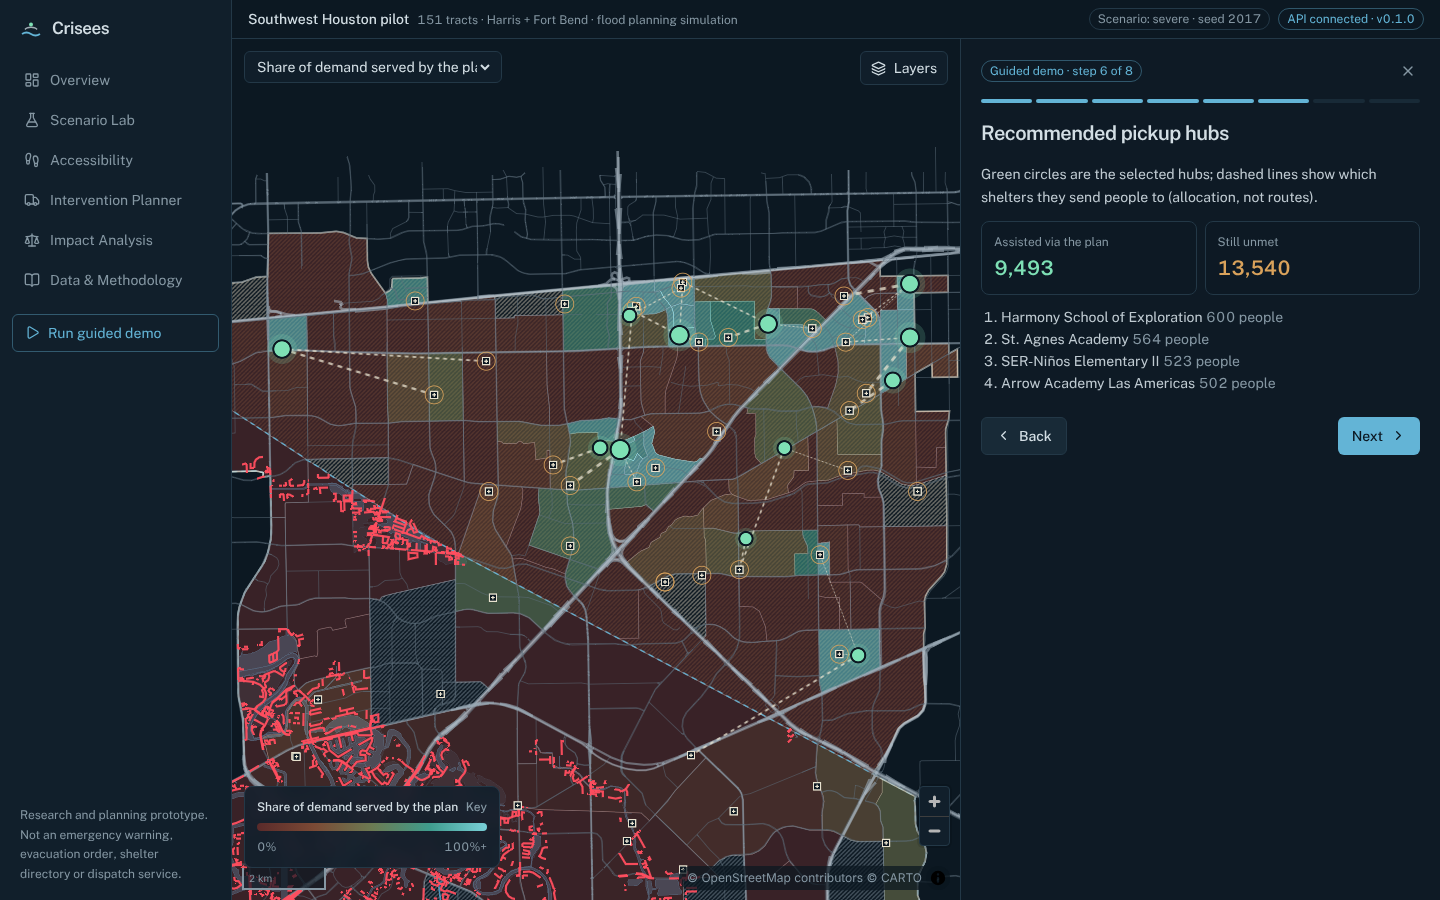
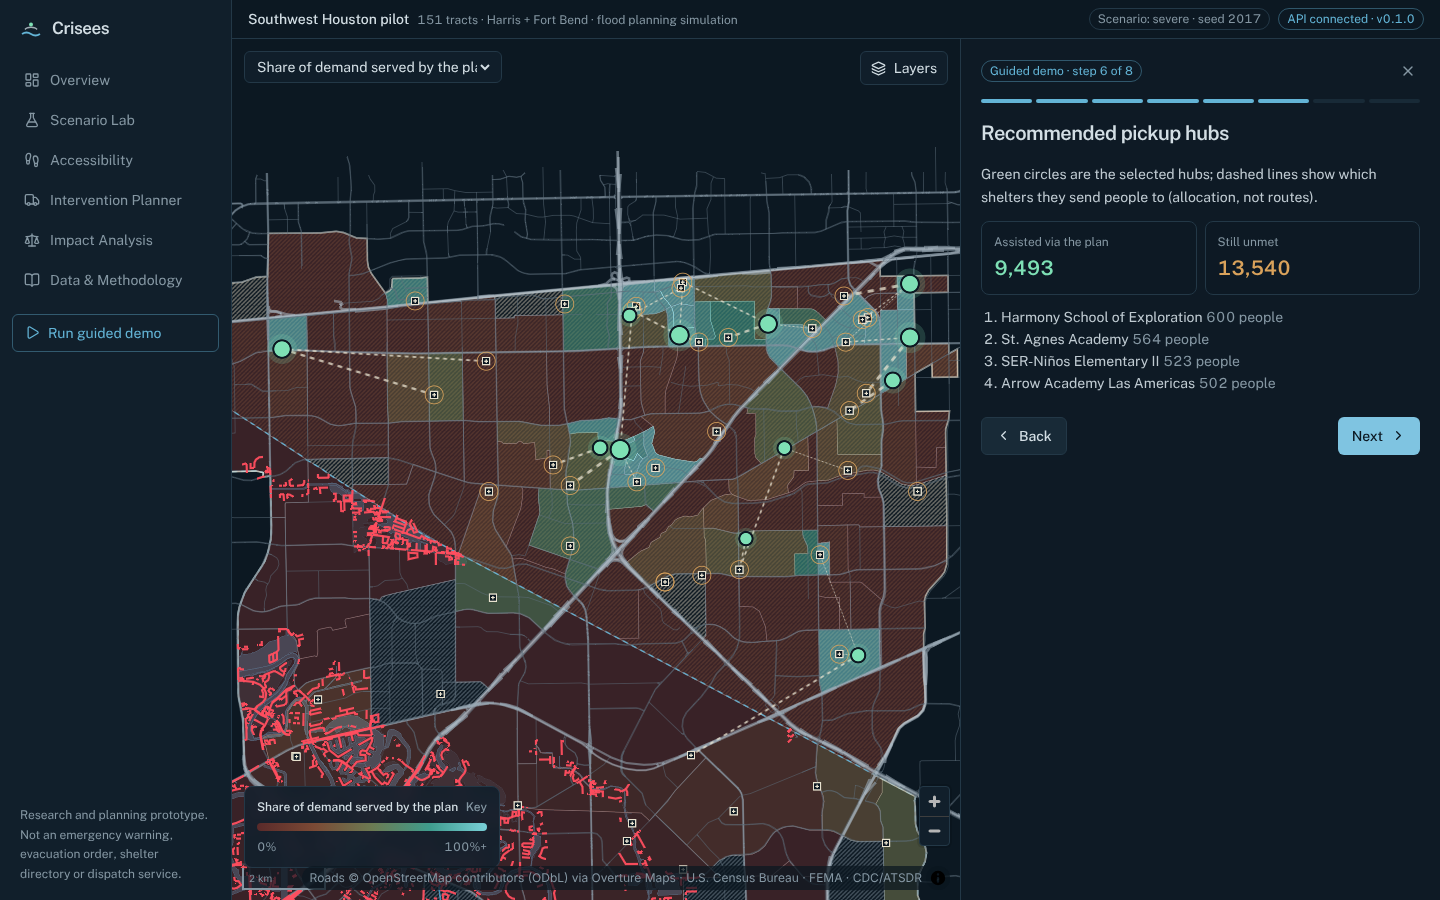
Docs: record the live Vercel deployment, verified checklist and Devpost draft
- DEPLOYMENT: live URLs, env vars, how the API fits Vercel's limits, cold starts
- RELEASE_CHECKLIST: only items verified in production are ticked
- DEVPOST_SUBMISSION: live URLs; demo video explicitly pending
- README/DEMO_SCRIPT: live links and warm-up note; screenshots from production

Claude-Session: https://claude.ai/code/session_01Cz7WM2xR1NJjrMpmw2fqLJ

Changed region(s): [[0.2188, 0.9644, 0.625, 0.9956], [0.9062, 0.4356, 1.0, 0.5289]]

diff --git a/docs/DEPLOYMENT.md b/docs/DEPLOYMENT.md
@@ -1,120 +1,108 @@
 # Deployment
 
-Target: the frontend on **Vercel** (Next.js) and the API on **Render** (Docker). Any Docker host with about
-1 GB of RAM works for the API.
+## Live deployment
 
-**Status:** deployment configurations are complete and were tested locally: the entrypoint, data
-provisioning, CORS and the production frontend build. A live public deployment has **not** been verified.
-The build environment had no Render (or other container host) credentials, no Docker daemon, and no
-permission to create GitHub Release assets. The steps below are what remains.
+| Component | URL | Host |
+| --- | --- | --- |
+| Web app (Next.js) | https://crisees-drea7.vercel.app | Vercel project `crisees`, root `frontend/` (Hobby plan, free) |
+| API (FastAPI) | https://crisees-api-drea7.vercel.app | Vercel project `crisees-api`, root `backend/`, Python function (Hobby plan, free) |
+| Data release | https://github.com/renish5609-beep/Crisees/releases/tag/data-v1 | GitHub Release `data-v1` |
 
-## 1. Publish the data release (once per data version)
+Both projects deploy automatically from branch `claude/sleepy-cori-ki2xgv`, which is the repository's
+default branch. Deployment protection is off so judges can open the app without a Vercel login.
 
-Processed data (about 27 MB) is Git-ignored. Build an immutable, checksummed artifact:
+Verified in production on 2026-11-22:
+
+- `/health` returns `regions_with_processed_data: 1` in the `production` environment.
+- `/demo` returns all five comparison cases with feasible constraint checks.
+- 18 endpoints returned 200.
+- CORS allows the app's origin and rejects unknown origins.
+- `npm run e2e` passes against both live URLs (see RELEASE_CHECKLIST.md).
+
+**Cost.** No paid services are used. Render was evaluated, but it requires a payment method, so it was not
+created.
+
+## How the API fits on Vercel
+
+Vercel's standard Python function size is **250 MB uncompressed**. Above that, dependencies are installed
+at runtime into `/tmp`, which fails for this stack. The API's geospatial dependencies total about 550 MB,
+so the backend build does the following:
+
+1. **Lean core dependencies.** `backend/pyproject.toml` core dependencies are only what the API imports.
+   The pipeline extras (OSMnx, pyogrio, requests) and the `server` extra (uvicorn) are separate. Docker
+   and local development install `.[dev]`, or `.[pipeline,server]` for Docker.
+2. **Build hook.** `backend/vercel_build.py` runs via `[tool.vercel.scripts] build`, after dependencies
+   are installed. It only acts when `VERCEL=1`, and only on `.vercel/python/.venv`.
+   - It downloads the data release from `CRISEES_DATA_URL` and verifies `CRISEES_DATA_SHA256`; on a
+     mismatch the build fails.
+   - It reads each dataset with pyarrow, which is lossless, converts Arrow-backed strings and labels to
+     plain Python objects, refuses any pickle that still references pyarrow, and writes gzip pickles to
+     `backend/data_bundle/processed/<region>/` (18.7 MB).
+   - It removes pyarrow, pyogrio, unused scipy subpackages and test suites from the virtualenv. In the
+     local rehearsal this took the packages from 398 MB to 239 MB.
+3. **Runtime.** `CRISEES_DATA_DIR=data_bundle`. The repository loads `.pkl.gz` files when present and
+   Parquet otherwise, so local and Docker behaviour are unchanged. A rehearsal with pyarrow imports
+   blocked returned 200 from every endpoint, with identical demo numbers.
+
+API environment variables (project `crisees-api`, Production and Preview):
+
+| Variable | Value |
+| --- | --- |
+| `CRISEES_ENV` | `production` |
+| `CRISEES_DATA_DIR` | `data_bundle` |
+| `CRISEES_DATA_URL` | `https://github.com/renish5609-beep/Crisees/releases/download/data-v1/crisees-data-houston-sw-pilot-20261122T002055Z.tar.gz` |
[1 lines of base64/hex data omitted]
+| `CRISEES_CORS_ORIGINS` | `https://crisees-drea7.vercel.app,http://localhost:3000` |
+| `CRISEES_CORS_ORIGIN_REGEX` | `^https://crisees[a-z0-9-]*\.vercel\.app$` (preview URLs) |
+
+Frontend environment variables (project `crisees`):
+
+| Variable | Value |
+| --- | --- |
+| `NEXT_PUBLIC_API_BASE_URL` | `https://crisees-api-drea7.vercel.app` |
+| `NEXT_PUBLIC_DEFAULT_REGION` | `houston-sw-pilot` |
+| `NEXT_PUBLIC_BASEMAP_TILES` | `none`. External raster tiles are opt-in: CARTO's free tiles now require an API key and rendered "API KEY REQUIRED" in production. The map uses its self-hosted major-roads layer for context |
+
+**Cold starts.** After idle periods the first request starts a new function instance, which loads the
+bundled data and builds the routing engine. The first `/demo` takes about 10–12 s. Later requests on a
+warm instance are served from the cache in milliseconds. Before presenting, open the app once to warm it.
+
+## Data release (immutable, checksummed)
+
+Processed data is Git-ignored. Release `data-v1` holds:
+
+- `crisees-data-houston-sw-pilot-20261122T002055Z.tar.gz`: 22,107,830 bytes, SHA-256
[1 lines of base64/hex data omitted]
+  and `ATTRIBUTION.md`, with the ODbL and CDLA notices.
+- The matching `.sha256` file.
+
+Both assets were verified publicly downloadable, and the checksum was independently recomputed.
+
+For a new data version, run `python scripts/package_data_release.py`, publish a new release tag, and
+update `CRISEES_DATA_URL` and `CRISEES_DATA_SHA256`. The next deployment bundles the new data.
+
+## Redeploying
+
+Push to `claude/sleepy-cori-ki2xgv`. Both Vercel projects build automatically: about 1 minute for the
+frontend and 1–2 minutes for the API.
+
+## Alternative: Docker host (Render, Fly.io, Cloud Run)
+
+`backend/Dockerfile`, `backend/docker-entrypoint.sh` and `render.yaml` remain available for a
+long-running server (about 1 GB RAM). The entrypoint fetches and verifies the same release at start.
+Render's Standard plan costs about $25/month plus disk; it was not used. See the git history for the
+earlier Render instructions.
+
+## Verifying a deployment
 
 ```bash
-python scripts/package_data_release.py --region houston-sw-pilot
+curl https://crisees-api-drea7.vercel.app/health
 ```
-
-This produces `dist/crisees-data-houston-sw-pilot-<stamp>.tar.gz` and its `.sha256` file. The artifact
-contains processed data plus `ATTRIBUTION.md`, which covers ODbL for the OSM-derived road tables and
-CDLA-Permissive-2.0 for Overture places.
-
-Artifact built in this environment:
-
-| File | Bytes | SHA-256 |
-| --- | ---: | --- |
[1 lines of base64/hex data omitted]
-
-Upload it as a GitHub Release asset (immutable, public):
-
 ```bash
-gh release create data-v1 dist/crisees-data-houston-sw-pilot-*.tar.gz dist/*.sha256 \
-  --repo renish5609-beep/Crisees --title "Crisees data v1 (houston-sw-pilot)" \
-  --notes "Processed datasets for the Crisees API. See ATTRIBUTION.md inside."
+curl https://crisees-api-drea7.vercel.app/api/v1/regions/houston-sw-pilot/demo | jq '.result.cases[] | {case, served: .totals.served}'
 ```
-
-The asset URL has this form:
-`https://github.com/renish5609-beep/Crisees/releases/download/data-v1/crisees-data-houston-sw-pilot-20261122T002055Z.tar.gz`
-
-## 2. Deploy the API on Render
-
-1. Render dashboard → **New → Blueprint** → select this repository and branch. `render.yaml` defines
-   `crisees-api`: a Docker service on the `standard` plan (2 GB), a health check on `/health`, and a 1 GB
-   disk at `/data`.
-2. Set the environment variables:
-
-   | Variable | Value |
-   | --- | --- |
-   | `CRISEES_DATA_URL` | The release asset URL from step 1 |
[1 lines of base64/hex data omitted]
-   | `CRISEES_CORS_ORIGINS` | `https://<your-vercel-domain>` (comma-separated list allowed) |
-   | `CRISEES_CORS_ORIGIN_REGEX` | Optional, for previews, e.g. `^https://crisees-.*\.vercel\.app$` |
-
-3. Deploy. The entrypoint (`backend/docker-entrypoint.sh`) then does the following:
-   - It downloads the release, verifies the SHA-256 and refuses to install on a mismatch. It extracts
-     atomically, then validates all 12 datasets. On a persistent disk, a re-run with the same checksum is
-     a no-op.
-   - It starts uvicorn with one worker. The engine caches the road graph, about 1 GB per process.
-   - It warms the engine in the background (the severe scenario and the demo), so the first visitor gets
-     cached answers.
-4. Verify: `curl https://<api>/health` should return `"regions_with_processed_data": 1`.
-   `curl https://<api>/api/v1/regions/houston-sw-pilot/demo` should return the five comparison cases.
-
-**Fallbacks.**
-
-- If `CRISEES_DATA_URL` is unset and `CRISEES_BUILD_DATA=1`, the container rebuilds data from public
-  sources. This takes about 5 minutes and needs about 2 GB RAM. Pin `CRISEES_OVERTURE_RELEASE=2026-11-18.0`
-  for reproducibility. Overture removes old releases after a few months, and official FEMA and CDC sources
-  may yield *more complete* data than the documented build, so the numbers may differ.
-- With no data at all, the API still starts. `/health` reports `regions_with_processed_data: 0` and the
-  data endpoints return 503 `dataset_not_available` with instructions. The frontend shows
-  "API up, data not provisioned".
-
-**Robustness.**
-
-- **Container restarts:** the disk keeps the data, and the checksum marker skips re-download.
-- **Cold start:** about 4 s to build the engine, absorbed by the warm-up.
-- **Solver limits:** each solve is time-limited to 30 s by default and 120 s at most, and at most 2
-  analysis jobs run concurrently (otherwise 503 `engine_busy`).
-- **Caching:** results are LRU-cached by request hash.
-
-Without Docker, you can run the image's steps directly:
-
 ```bash
-pip install ./backend && python scripts/fetch_data_release.py && uvicorn app.main:app --app-dir backend --host 0.0.0.0 --port $PORT
+cd frontend && APP_URL=https://crisees-drea7.vercel.app API_URL=https://crisees-api-drea7.vercel.app npm run e2e
 ```
 
-**Memory note:** Render's free and starter plans (512 MB) are too small. The process uses about 1 GB once
-warm, so choose `standard` or larger.
-
-## 3. Deploy the frontend on Vercel
-
-1. Vercel → **Add New → Project** → import `renish5609-beep/Crisees`. Set **Root Directory** to
-   `frontend`. The framework (Next.js) is auto-detected.
-2. Environment variables (Production and Preview):
-
-   | Variable | Value |
-   | --- | --- |
-   | `NEXT_PUBLIC_API_BASE_URL` | `https://<your-render-service>.onrender.com` (no trailing slash; **required**) |
-   | `NEXT_PUBLIC_DEFAULT_REGION` | `houston-sw-pilot` |
-   | `NEXT_PUBLIC_BASEMAP_TILES` | Optional; default CARTO dark (no labels). Check the tile provider's terms for your traffic |
-
-   Without `NEXT_PUBLIC_API_BASE_URL`, a production build shows a clear "not configured" error. It never
-   falls back to localhost.
-3. Deploy, then add the Vercel domain to `CRISEES_CORS_ORIGINS` on Render and redeploy the API.
-4. Verify:
-   - Open the site. The status pill reads "API connected".
-   - **Run guided demo** completes all 8 steps.
-   - Optional: `APP_URL=https://<vercel> API_URL=https://<api> npm run e2e` from `frontend/`.
-
-## 4. Alternative hosts
-
-- **Fly.io / Railway / Google Cloud Run:** use `backend/Dockerfile` with the same environment variables
-  and at least 1 GB of memory. On Cloud Run, set `--memory 2Gi --cpu 2 --concurrency 4`, and either set
-  min-instances to 1 or accept cold starts of about 10 s, including the data download.
-- **Bake data into the image:** pass `--build-arg CRISEES_DATA_URL=… --build-arg CRISEES_DATA_SHA256=…`.
-
-## Secrets
-
-None are required. The Census API key is optional and unused in deployment. Do not commit `.env` files.
+Node's built-in `fetch` ignores proxy variables; behind a proxy, add `NODE_USE_ENV_PROXY=1`.

diff --git a/docs/RELEASE_CHECKLIST.md b/docs/RELEASE_CHECKLIST.md
@@ -1,42 +1,48 @@
 # Release checklist (final submission)
 
+Checked items were verified on 2026-11-22. Unchecked items have not been verified or are pending your
+action.
+
 ## Code and tests
 
-- [ ] `cd backend && python -m pytest` passes (157 tests; real-data tests run when data is present)
-- [ ] `cd frontend && npm run typecheck && npm run lint && npm test` passes
-- [ ] `NEXT_PUBLIC_API_BASE_URL=<api> npm run build` succeeds
-- [ ] `python scripts/validate_data.py`: 12/12 datasets valid
-- [ ] `APP_URL=… API_URL=… npm run e2e` passes against the deployed URLs, with no console errors
-- [ ] Branch pushed; CI green
+- [x] `cd backend && python -m pytest`: 157 passed (real-data tests ran against the local processed data)
+- [x] `cd frontend && npm run typecheck && npm run lint && npm test`: pass (11 unit tests)
+- [x] `NEXT_PUBLIC_API_BASE_URL=https://crisees-api-drea7.vercel.app npm run build` succeeds (first load for `/` is 135 kB)
+- [x] `python scripts/validate_data.py`: 12/12 datasets valid (local data and the installed release)
+- [x] `APP_URL=https://crisees-drea7.vercel.app API_URL=https://crisees-api-drea7.vercel.app npm run e2e` passes, with no console errors
+- [x] Branch `claude/sleepy-cori-ki2xgv` pushed
+- [ ] GitHub Actions CI green. Not checked: CI results were not inspected in this session
 
 ## Data release
 
-- [ ] `python scripts/package_data_release.py` run, and the `.tar.gz` and `.sha256` uploaded to a GitHub Release
-- [ ] `CRISEES_DATA_SHA256` on the API equals the published `.sha256`
-- [ ] `ATTRIBUTION.md` present in the artifact (ODbL / CDLA notices)
+- [x] Release `data-v1` published with both assets: https://github.com/renish5609-beep/Crisees/releases/tag/data-v1
+- [x] Archive publicly downloadable; SHA-256 recomputed and matches `0fe0e8e3…69eb`
+- [x] `CRISEES_DATA_SHA256` on the API equals the published `.sha256`
+- [x] `ATTRIBUTION.md` present in the artifact (ODbL / CDLA notices)
 
 ## Deployment
 
-- [ ] API `/health` returns `regions_with_processed_data: 1`
-- [ ] API `/api/v1/regions/houston-sw-pilot/demo` returns 5 cases, all `constraint_check_feasible: true`
-- [ ] Frontend env `NEXT_PUBLIC_API_BASE_URL` points at the API (no localhost)
-- [ ] API `CRISEES_CORS_ORIGINS` contains the frontend domain
-- [ ] The status pill on the live site reads "API connected"
-- [ ] Guided demo completes all 8 steps on the live site
-- [ ] Mobile check at about 390 px width: no horizontal scroll, panels readable
+- [x] API `/health` returns `regions_with_processed_data: 1` (https://crisees-api-drea7.vercel.app/health)
+- [x] API `/demo` returns 5 cases, all `constraint_check_feasible: true`; values match the Phase 2 reference (5,214 → 9,493 of 23,033)
+- [x] Frontend `NEXT_PUBLIC_API_BASE_URL` points at the production API (no localhost)
+- [x] API CORS allows https://crisees-drea7.vercel.app and rejects unknown origins
+- [x] Live status pill reads "API connected"
+- [x] Guided demo completes all 8 steps on the live site (automated)
+- [x] Mobile at 390 px: no horizontal scroll (automated)
+- [x] No paid services activated
 
 ## Content honesty
 
-- [ ] Displayed numbers come from live API responses; none are hard-coded
-- [ ] Disclaimer visible: Overview, rail, Methodology, Impact
-- [ ] "Unknown (no FEMA data)" hatching visible and explained in the legend
-- [ ] Equity vs equal described as redistribution, not an increase, when totals are equal
-- [ ] Hub details show the authorization warning for schools and private property
-- [ ] Devpost text claims no users, partners or real-world impact
+- [x] Displayed numbers come from live API responses (e2e compares the UI against direct API calls)
+- [x] Disclaimer visible: Overview, rail, Methodology, Impact
+- [x] "No FEMA data" hatching visible and explained in the legend
+- [x] Equity vs equal described as redistribution when totals are equal ("no change" shown)
+- [x] Hub details show the authorization warning for schools and private property
+- [x] Devpost draft claims no users, partners or real-world impact
 
-## Submission
+## Submission (your action)
 
-- [ ] Demo video ≤ 3 min recorded from `docs/DEMO_SCRIPT.md`
-- [ ] Devpost fields filled from `docs/DEVPOST_SUBMISSION.md`; live app and video links added
-- [ ] Screenshots attached from `docs/img/` (real application captures)
-- [ ] Repository link set to https://github.com/renish5609-beep/Crisees
+- [ ] Demo video (≤ 3 min) recorded from `docs/DEMO_SCRIPT.md`. **Pending: you are recording this**
+- [ ] Devpost fields filled from `docs/DEVPOST_SUBMISSION.md`, with the video link added
+- [ ] Screenshots attached from `docs/img/` (real production captures)
+- [ ] Final Devpost submission. **Pending your approval and action**

diff --git a/docs/DEVPOST_SUBMISSION.md b/docs/DEVPOST_SUBMISSION.md
@@ -1,5 +1,17 @@
 # Devpost submission: Crisees
 
+Draft for your review. **Do not submit until the demo video link is added and you approve.**
+
+| Field | Value |
+| --- | --- |
+| Project title | Crisees |
+| Tagline | Find the gaps. Plan the response. |
+| Public application | https://crisees-drea7.vercel.app |
+| API (for judges) | https://crisees-api-drea7.vercel.app/docs |
+| GitHub repository | https://github.com/renish5609-beep/Crisees |
+| Demo video | **PENDING: being recorded separately by the team; add the link before submitting** |
+| Screenshots | `docs/img/` (real captures of the live production app) |
+
 **Tagline:** Find the gaps. Plan the response.
 
 **Track:** EvoHacks II: Projects for Social Good
@@ -76,6 +88,9 @@ shifts coverage toward higher-poverty, higher-disability neighbourhoods. The app
   add people to demand.
 - **Correctness traps.** Building a sparse matrix silently summed parallel road edges, and we caught it in
   testing. "Reaching a pickup point" had to be separated from "being evacuated" in the model.
+- **Free serverless deployment.** The geospatial Python stack is about 550 MB, more than twice Vercel's
+  250 MB function limit. At build time we verify the checksummed data release, convert it to a
+  pyarrow-free bundle, and prune unused libraries, then re-ran every endpoint with pyarrow blocked.
 
 ## Accomplishments we're proud of
 
@@ -103,7 +118,7 @@ would. We also learned how much rigor it takes to make public data say only what
 ## Built with
 
 Python, FastAPI, Pydantic, GeoPandas, Shapely, SciPy (HiGHS), NetworkX, OSMnx, PyArrow, Next.js,
-TypeScript, Tailwind CSS, MapLibre GL JS, Recharts, Lucide, zod, Vitest, Playwright, Docker.
+TypeScript, Tailwind CSS, MapLibre GL JS, Recharts, Lucide, zod, Vitest, Playwright, Vercel, GitHub Releases.
 
 ## Responsible use
 
@@ -117,6 +132,9 @@ shelter directory or dispatch service.
 
 ## Links
 
+- Live app: https://crisees-drea7.vercel.app. Open it once before judging: the first request after an idle
+  period wakes the serverless API, about 10 s.
+- API docs: https://crisees-api-drea7.vercel.app/docs
 - Code: https://github.com/renish5609-beep/Crisees
-- Live app: *add after deployment (see docs/DEPLOYMENT.md)*
-- Demo video: *add after recording (see docs/DEMO_SCRIPT.md)*
+- Data release: https://github.com/renish5609-beep/Crisees/releases/tag/data-v1
+- Demo video: **pending (being recorded separately)**

diff --git a/README.md b/README.md
@@ -7,6 +7,9 @@ network analysis and mathematical optimization to help planners see where commun
 reach evacuation assistance during a flood. It simulates hypothetical flood-related road disruptions and
 tests how limited pickup hubs, vehicles and shelter space could be allocated.
 
+**Live app:** https://crisees-drea7.vercel.app · **API:** https://crisees-api-drea7.vercel.app/docs ·
+**Data release:** [data-v1](https://github.com/renish5609-beep/Crisees/releases/tag/data-v1)
+
 > Crisees is a research and planning prototype. It is not an emergency warning, evacuation order, verified
 > shelter directory, or dispatch service.
 
@@ -114,9 +117,10 @@ The browser test checks that the numbers the UI displays match direct API respon
 
 ## Deployment
 
-The backend runs as a Docker service (Render blueprint in `render.yaml`, about 1 GB RAM). Data is
-provisioned at startup from a versioned, SHA-256-verified release artifact, so no datasets are stored in
-Git. The frontend deploys to Vercel with `NEXT_PUBLIC_API_BASE_URL` set. See
+Both parts run on Vercel's free Hobby plan: the Next.js app and the FastAPI backend as a Python function.
+At build time the API verifies the SHA-256 of the published data release, bundles it without pyarrow,
+and prunes unused libraries to fit the function size limit. No datasets are stored in Git. A Docker
+setup (`backend/Dockerfile`, `render.yaml`) remains for long-running hosts. See
 [docs/DEPLOYMENT.md](docs/DEPLOYMENT.md).
 
 ## Data provenance
@@ -149,4 +153,4 @@ documented mirrors and fallbacks were used. See [docs/DATA_SOURCES.md](docs/DATA
 
 Contains U.S. Census Bureau TIGER/Line and ACS data, CDC/ATSDR SVI data and FEMA flood hazard data.
 It also contains OpenStreetMap data (© OpenStreetMap contributors, ODbL 1.0) and Overture Maps data
-(CDLA-Permissive-2.0). Basemap tiles © CARTO.
+(CDLA-Permissive-2.0).

diff --git a/docs/DEMO_SCRIPT.md b/docs/DEMO_SCRIPT.md
@@ -1,7 +1,11 @@
 # Demo video script (≤ 3 minutes)
 
-**Setup:** desktop browser at 1440×900 with the app open on **Overview** and the status pill reading
-"API connected". The backend has been warmed, which the deployment entrypoint does automatically.
+**Setup:** desktop browser at 1440×900 with https://crisees-drea7.vercel.app open on **Overview** and the
+status pill reading "API connected".
+
+**Warm up first:** the API is serverless, and its first request after an idle period takes about 10 s.
+Click through the guided demo once before recording; later runs come from the server cache and respond
+almost instantly.
 
 Numbers below are the reference values from the deterministic demo (severe scenario, seed 2017, default
 budget). The app fetches them live; if they ever differ, say what is on screen.
